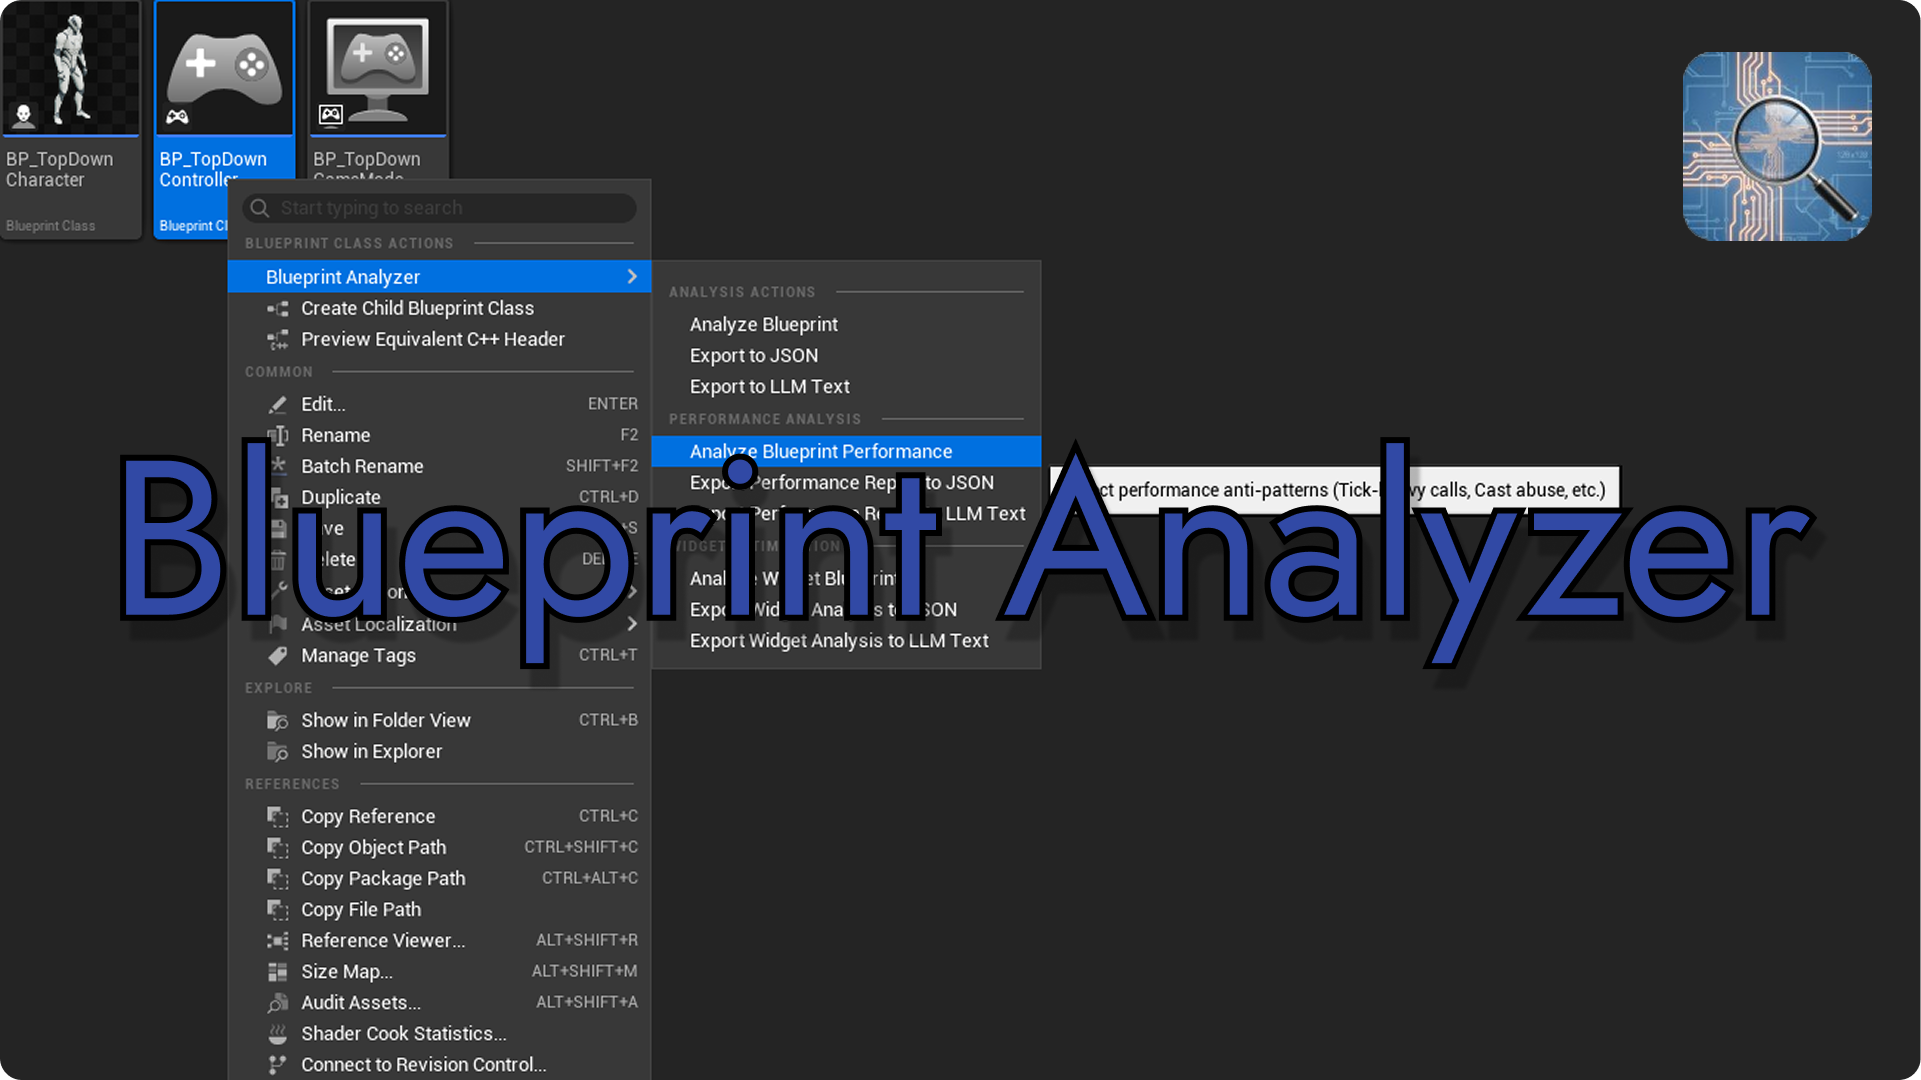
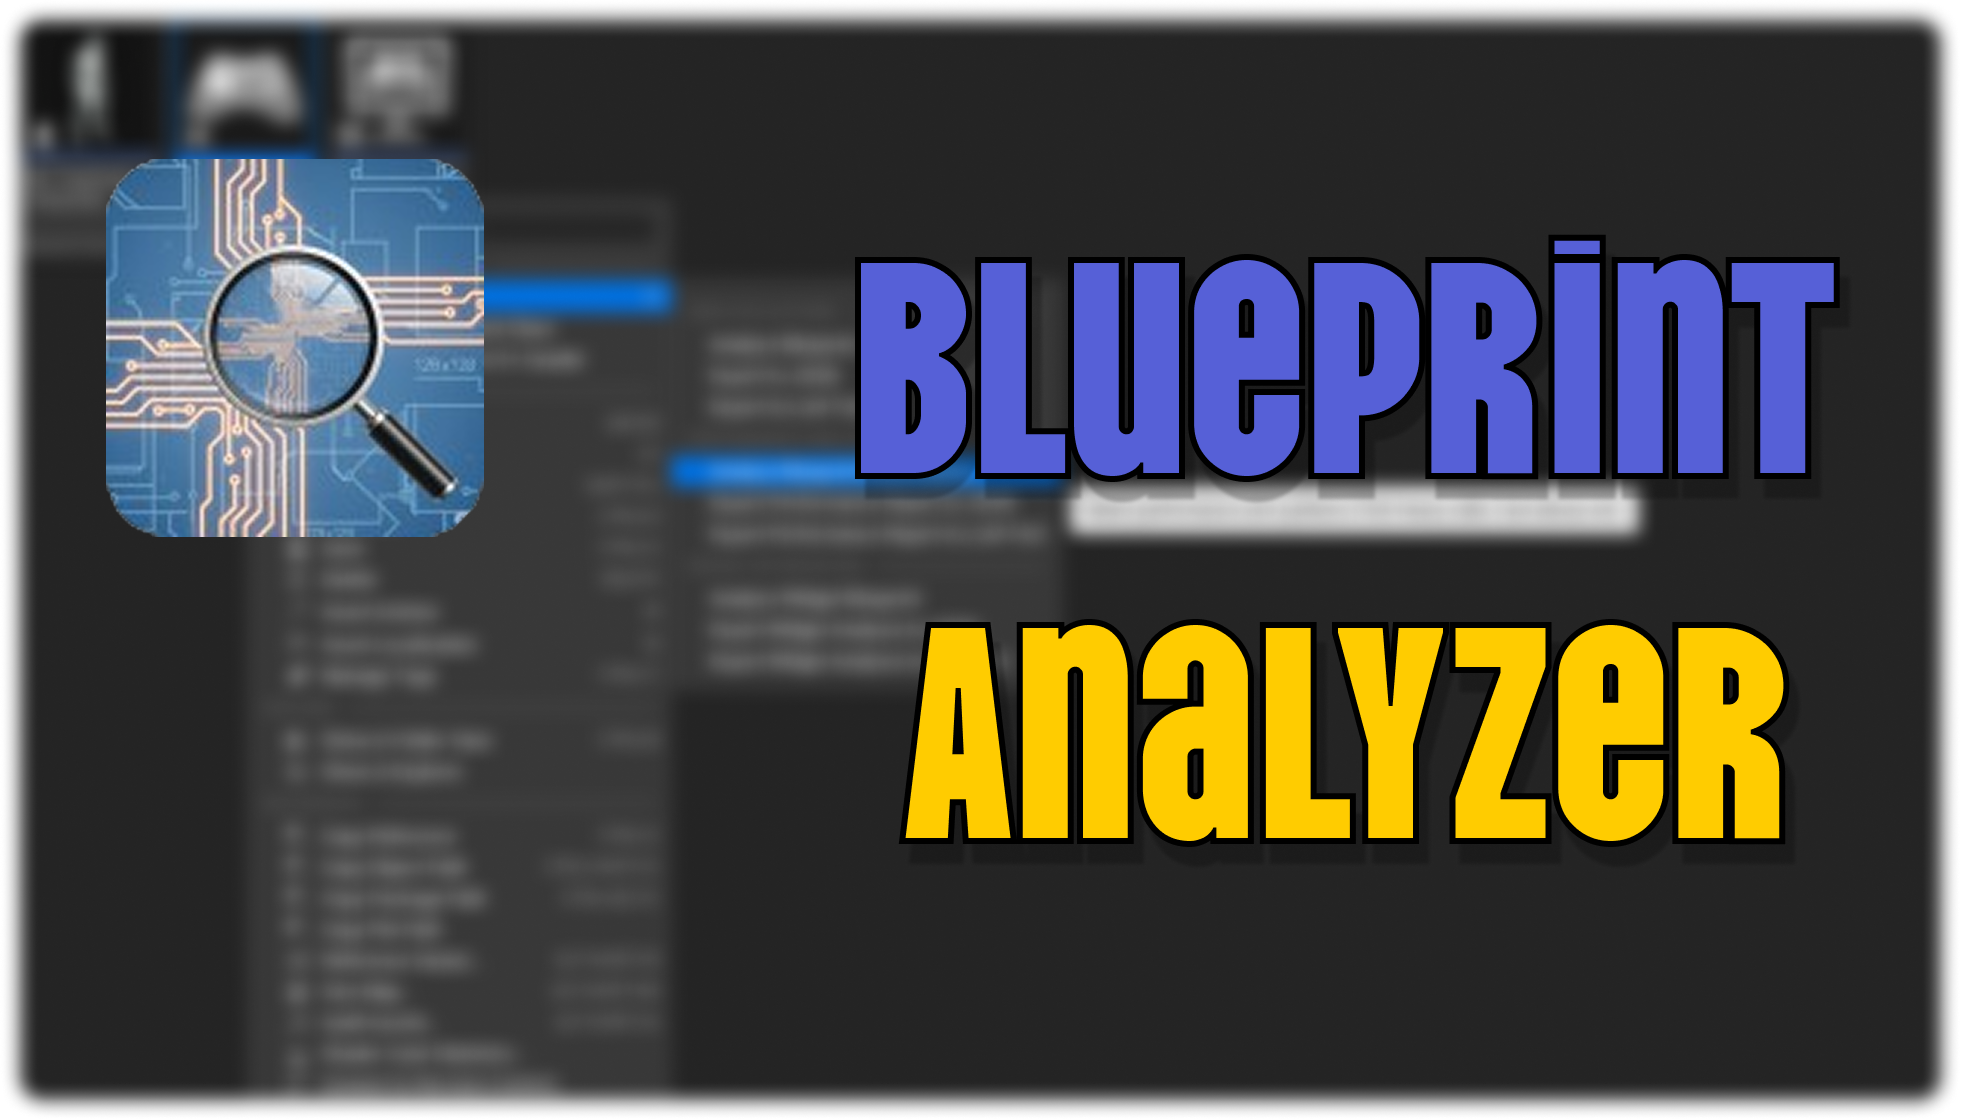
v1.1.3: 폴더 배치 분석 Virtual Path 변환 버그 수정
UE 5.1+에서 Content Browser가 "/All/Game/..." 형식의 virtual path를 반환하지만
AssetRegistry는 "/Game/..." internal path를 기대하여 폴더 분석 시 Blueprint 0개로
집계되는 문제 수정.

- ContentBrowserData 모듈 추가
- UContentBrowserDataSubsystem::TryConvertVirtualPath로 internal path 변환
- 변환 실패 시 "/All/" prefix 수동 제거 fallback
- 버전 1.1.3으로 업데이트
- 썸네일 이미지 갱신 및 4번째 썸네일 추가

diff --git a/Source/BlueprintAnalyzer/Private/BlueprintAnalyzerMenuExtension.cpp b/Source/BlueprintAnalyzer/Private/BlueprintAnalyzerMenuExtension.cpp
@@ -7,6 +7,8 @@
 #include "AssetRegistry/AssetRegistryModule.h"
 #include "ContentBrowserModule.h"
 #include "IContentBrowserSingleton.h"
+#include "IContentBrowserDataModule.h"
+#include "ContentBrowserDataSubsystem.h"
 #include "Framework/MultiBox/MultiBoxBuilder.h"
 #include "ToolMenus.h"
 #include "Misc/MessageDialog.h"
@@ -494,23 +496,50 @@ void FBlueprintAnalyzerMenuExtension::ExecuteExportPerformanceToLLMText()
 FString FBlueprintAnalyzerMenuExtension::GetSelectedFolderPath()
 {
     FContentBrowserModule& ContentBrowserModule = FModuleManager::LoadModuleChecked<FContentBrowserModule>("ContentBrowser");
-    TArray<FString> SelectedPaths;
-    ContentBrowserModule.Get().GetSelectedPathViewFolders(SelectedPaths);
+    IContentBrowserSingleton& ContentBrowser = ContentBrowserModule.Get();
 
+    FString RawPath;
+
+    TArray<FString> SelectedPaths;
+    ContentBrowser.GetSelectedPathViewFolders(SelectedPaths);
     if (SelectedPaths.Num() > 0)
     {
-        return SelectedPaths[0];
+        RawPath = SelectedPaths[0];
     }
 
-    // Fallback: try GetSelectedFolders
-    TArray<FString> SelectedFolders;
-    ContentBrowserModule.Get().GetSelectedFolders(SelectedFolders);
-    if (SelectedFolders.Num() > 0)
+    if (RawPath.IsEmpty())
     {
-        return SelectedFolders[0];
+        TArray<FString> SelectedFolders;
+        ContentBrowser.GetSelectedFolders(SelectedFolders);
+        if (SelectedFolders.Num() > 0)
+        {
+            RawPath = SelectedFolders[0];
+        }
     }
 
-    return FString();
+    if (RawPath.IsEmpty())
+    {
+        return FString();
+    }
+
+    // UE 5.1+: ContentBrowser returns virtual paths like "/All/Game/MyFolder".
+    // AssetRegistry expects internal paths like "/Game/MyFolder".
+    if (UContentBrowserDataSubsystem* DataSubsystem = IContentBrowserDataModule::Get().GetSubsystem())
+    {
+        FString InternalPath;
+        if (DataSubsystem->TryConvertVirtualPath(RawPath, InternalPath) == EContentBrowserPathType::Internal)
+        {
+            return InternalPath;
+        }
+    }
+
+    // Fallback: strip "/All" virtual root if conversion is unavailable.
+    if (RawPath.StartsWith(TEXT("/All/")))
+    {
+        return RawPath.RightChop(4);
+    }
+
+    return RawPath;
 }
 
 void FBlueprintAnalyzerMenuExtension::ExecuteAnalyzeFolder()

diff --git a/Source/BlueprintAnalyzer/BlueprintAnalyzer.Build.cs b/Source/BlueprintAnalyzer/BlueprintAnalyzer.Build.cs
@@ -48,6 +48,7 @@ public class BlueprintAnalyzer : ModuleRules
 				"EditorSubsystem",
 				"AssetTools",
 				"ContentBrowser",
+				"ContentBrowserData",
 				"GraphEditor",
 				"DesktopPlatform"
 			}
